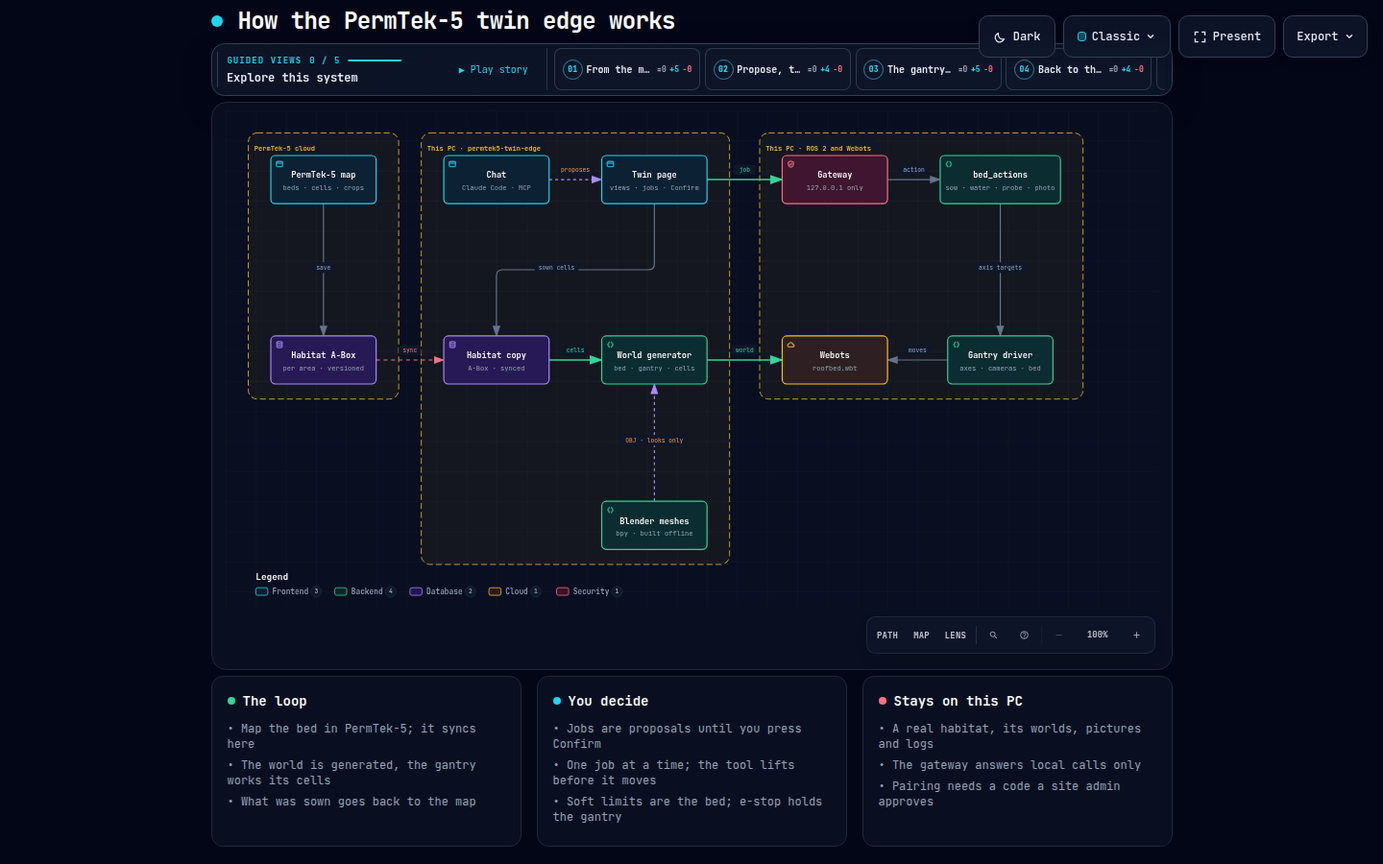
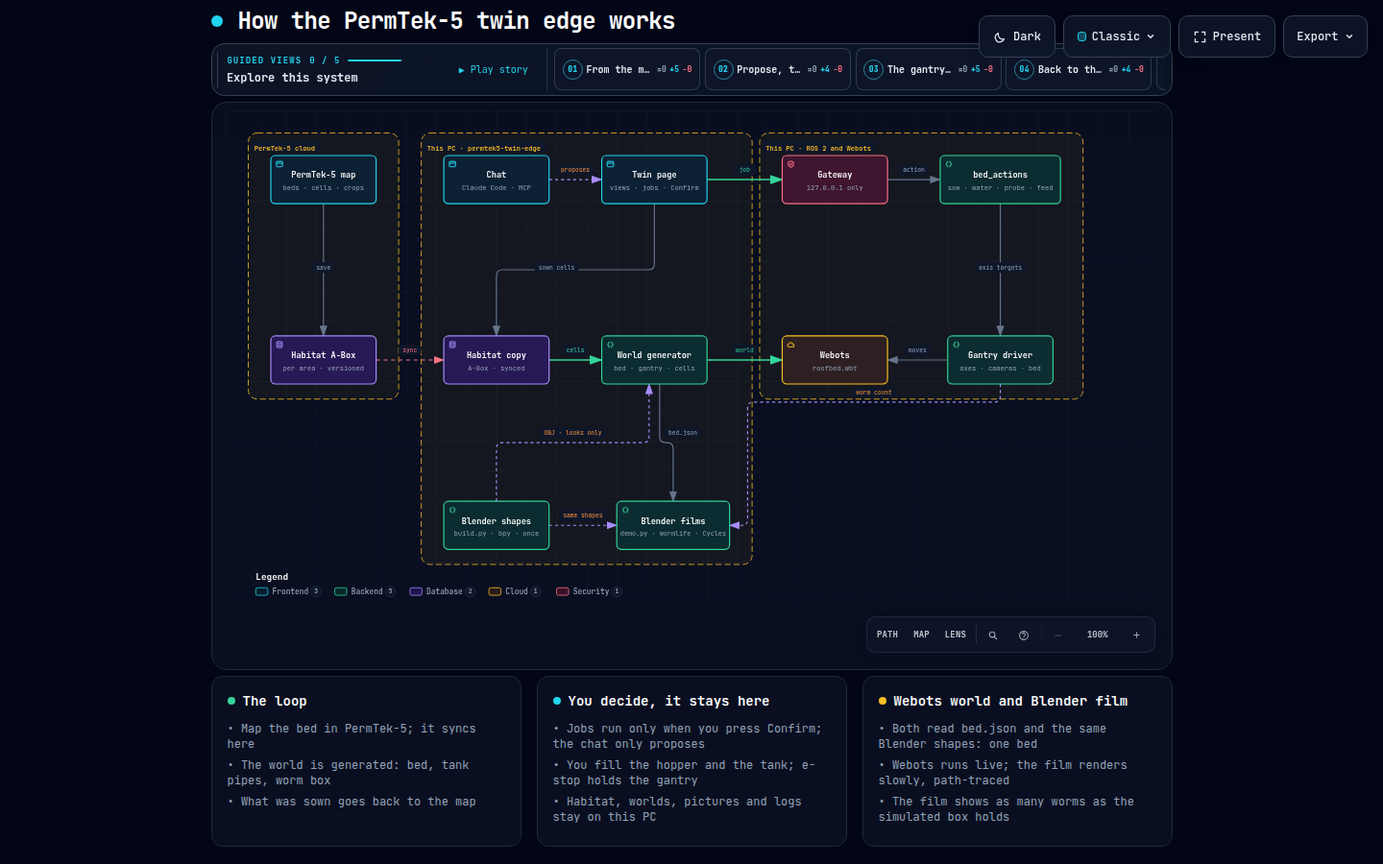
How it works: the Webots world and the Blender film
The drawing gains the Blender films: they read the same bed.json and the
same build.py shapes as the Webots world, and the simulated worm count.
A guided view and a card say what they share and what differs; the
README explains it in a table.

diff --git a/permtek5_twin_edge/static/how.html b/permtek5_twin_edge/static/how.html
@@ -5085,7 +5085,7 @@ OTHER DEALINGS IN THE FONT SOFTWARE.
       </div>
     </div>
 
-    <script id="archify-guided-views-data" type="application/json">[{"id":"plan","label":"From the map to a world","focus":["map","abox","knowledge","world","webots"],"note":"The habitat you map in PermTek-5 syncs to this PC. Its bed, cells and crops become a Webots world; nothing is drawn by hand."},{"id":"confirm","label":"Propose, then confirm","focus":["chat","page","gateway","actions"],"note":"The page lists what the gantry could do. A job is sent only when you press Confirm; the chat can only propose."},{"id":"move","label":"The gantry works a cell","focus":["actions","driver","webots","gateway","page"],"note":"bed_actions lifts the tool, moves over the cell, sows, waters, probes or photographs. Soft limits are the bed; an e-stop holds it."},{"id":"back","label":"Back to the map","focus":["page","knowledge","abox","map"],"note":"A sown cell is written into the habitat's copy, checked with the cloud's shapes, and the next sync shows it on the map."},{"id":"looks","label":"Blender meshes","focus":["assets","world","webots"],"note":"Plants, soil, the gantry's profile and trees are built once with Blender in its own Python. Without them the world uses boxes."}]</script>
+    <script id="archify-guided-views-data" type="application/json">[{"id":"plan","label":"From the map to a world","focus":["map","abox","knowledge","world","webots"],"note":"The habitat you map in PermTek-5 syncs to this PC. Its bed, cells and crops become a Webots world; nothing is drawn by hand."},{"id":"confirm","label":"Propose, then confirm","focus":["chat","page","gateway","actions"],"note":"The page lists what the gantry could do. A job is sent only when you press Confirm; the chat can only propose."},{"id":"move","label":"The gantry works a cell","focus":["actions","driver","webots","gateway","page"],"note":"bed_actions lifts the tool, moves over the cell, sows, waters, probes or photographs. Soft limits are the bed; an e-stop holds it."},{"id":"back","label":"Back to the map","focus":["page","knowledge","abox","map"],"note":"A sown cell is written into the habitat's copy, checked with the cloud's shapes, and the next sync shows it on the map."},{"id":"films","label":"Webots world and Blender film","focus":["world","webots","driver","assets","film"],"note":"Both read bed.json and one set of Blender shapes. Webots runs it live; the film renders it slowly and lifelike, with the box's worms."}]</script>
 
     <script id="archify-i18n-data" type="application/json">{"locale":"en","messages":{"viewer.kind.frontend":"Frontend","viewer.kind.backend":"Backend","viewer.kind.database":"Database","viewer.kind.cloud":"Cloud","viewer.kind.security":"Security","viewer.kind.messagebus":"Message bus","viewer.kind.external":"External","viewer.kind.neutral":"Neutral","viewer.kind.node":"Node","viewer.kind.start":"Start","viewer.kind.active":"Active","viewer.kind.waiting":"Waiting","viewer.kind.decision":"Decision","viewer.kind.success":"Success","viewer.kind.failure":"Failure","viewer.toolbar.actions":"Diagram actions","viewer.theme.toggle.title":"Toggle theme (T)","viewer.theme.toggle":"Toggle color theme","viewer.theme.dark":"Dark","viewer.theme.light":"Light","viewer.preset.choose.title":"Choose visual style (S cycles)","viewer.preset.choose":"Choose visual style","viewer.preset.style":"Style","viewer.preset.menu":"Visual style","viewer.preset.identity":"Visual identity","viewer.preset.cycles":"S cycles","viewer.preset.classic":"Classic","viewer.preset.classic.short":"Classic","viewer.preset.classic.hint":"Stable technical default","viewer.preset.flow":"Signal Flow","viewer.preset.flow.short":"Flow","viewer.preset.flow.hint":"Motion-forward presentation","viewer.preset.blueprint":"Blueprint","viewer.preset.blueprint.hint":"Engineering review","viewer.preset.editorial":"Editorial","viewer.preset.editorial.hint":"Publication and launch notes","viewer.preset.badge.signalFlow":"SIGNAL FLOW","viewer.preset.badge.blueprint":"BLUEPRINT / REV 01","viewer.preset.badge.editorial":"EDITORIAL / FIELD NOTE","viewer.preset.badge.editorialPlate":"ARCHIFY / PLATE 04","viewer.preset.current":"Visual style: {style}. Choose visual style","viewer.motion.live":"Live","viewer.motion.still":"Still","viewer.motion.pause":"Pause motion","viewer.motion.resume":"Resume motion","viewer.motion.reduced":"Motion paused by reduced-motion preference","viewer.motion.hidden":"Motion paused while this page is hidden","viewer.motion.yielding":"Pause motion; currently yielding to {owner}","viewer.motion.yielding.title":"Live preview enabled · yielding to {owner}","viewer.owner.story":"the guided story","viewer.owner.chapter":"the active chapter","viewer.owner.chapterPreview":"the chapter delta preview","viewer.owner.handoff":"the chapter handoff","viewer.owner.route":"Route Probe","viewer.owner.lens":"Semantic Lens","viewer.owner.relationship":"Relationship Preview","viewer.owner.intent":"Intent Trace","viewer.owner.focus":"semantic focus","viewer.owner.legend":"legend preview","viewer.owner.reader":"reader interaction","viewer.present.enter":"Enter presentation stage","viewer.present.enter.title":"Presentation stage (F)","viewer.present.exit":"Exit presentation stage","viewer.present.exit.title":"Exit presentation stage (F or Escape)","viewer.present.present":"Present","viewer.present.exit.label":"Exit","viewer.export.button":"Export","viewer.export.button.title":"Export diagram (E)","viewer.export.diagram":"Export diagram","viewer.export.menu":"Export","viewer.export.subtitle":"Portable, clean outputs","viewer.export.share":"Share","viewer.export.shareCard":"Share Card","viewer.export.routeShareCard":"Route Share Card","viewer.export.reachShareCard":"Reach Share Card","viewer.export.copyShareCard":"Copy Share Card","viewer.export.copyDiagram":"Copy diagram","viewer.export.clipboardPng":"PNG to clipboard","viewer.export.raster":"Raster images","viewer.export.image":"Image","viewer.export.lossless":"Lossless image","viewer.export.compact":"Compact image","viewer.export.modern":"Modern image","viewer.export.vectorMotion":"Vector and motion","viewer.export.vectorMotion.heading":"Vector \u0026 motion","viewer.export.editable":"Editable vector","viewer.export.motion6s":"6s motion","viewer.export.unsupported":"Not supported by this browser","viewer.export.clipboardUnsupported":"Clipboard image write not supported by this browser","viewer.export.clipboardUnsupported.period":"Clipboard image write not supported by this browser.","viewer.export.clipboardUnsupported.short":"Clipboard image write not supported in this browser.","viewer.export.motionUnavailable":"Motion capture unavailable in this browser","viewer.export.webmUnavailable":"WebM unavailable in this browser","viewer.export.failed":"Export failed: {message}","viewer.export.unknownVariant":"Unknown Share Card variant: {variant}","viewer.export.routeRequired":"Trace a route before exporting a Route Share Card","viewer.export.reachRequired":"Trace authored reach before exporting a Reach Share Card","viewer.export.unknown":"unknown","viewer.export.routeFailed":"Route Share Card export failed: {message}","viewer.export.reachFailed":"Reach Share Card export failed: {message}","viewer.export.copyFailed":"Copy failed: {message}","viewer.export.copiedPng":"Copied PNG to clipboard","viewer.export.copiedShare":"Copied Share Card","viewer.export.downloadedShare":"Downloaded Share Card","viewer.export.downloadedRoute":"Downloaded Route Share Card","viewer.export.downloadedReach":"Downloaded Reach Share Card","viewer.export.downloadedWebm":"Downloaded WebM","viewer.export.recording":"Recording 6 seconds of motion…","viewer.export.card.routeSummary.one":"Route: {source} → {target} · {count} directed hop","viewer.export.card.routeSummary.other":"Route: {source} → {target} · {count} directed hops","viewer.export.card.reachSummary":"Authored {direction} from {origin} · {nodes} · {links} · max {hops}","viewer.export.card.node.one":"{count} node","viewer.export.card.node.other":"{count} nodes","viewer.export.card.link.one":"{count} link","viewer.export.card.link.other":"{count} links","viewer.export.card.hop.one":"{count} hop","viewer.export.card.hop.other":"{count} hops","viewer.export.card.routeBadge":"ARCHIFY · ROUTE · {hops}","viewer.export.card.reachBadge":"ARCHIFY · {direction} REACH","viewer.export.card.defaultBadge":"ARCHIFY · {preset} · {theme}","viewer.export.direction.upstream":"Upstream","viewer.export.direction.downstream":"Downstream","viewer.export.error.canvasUnavailable":"Canvas unavailable for {label}","viewer.export.error.contextUnavailable":"2D canvas context unavailable for {label}","viewer.export.error.toBlobUnavailable":"canvas.toBlob unavailable for {label}","viewer.export.error.toBlobNull":"canvas.toBlob returned no data for {label}","viewer.export.error.variantsCombined":"Share Card variants cannot be combined","viewer.export.error.viewerState":"Share Card export could not remove temporary viewer state","viewer.export.error.routeState":"Route Card export could not preserve the resolved route safely","viewer.export.error.reachState":"Reach Card export could not preserve authored reach safely","viewer.export.error.webmRequirements":"WebM motion export requires a trace animation and browser MediaRecorder support","viewer.export.error.mediaRecorder":"MediaRecorder failed","viewer.export.error.emptyWebm":"MediaRecorder produced an empty WebM","viewer.export.error.webmBackground":"SVG background could not be loaded for WebM export","viewer.guided.region":"Guided diagram views","viewer.guided.previous":"Previous guided view","viewer.guided.previous.title":"Previous guided view ([)","viewer.guided.next":"Next guided view","viewer.guided.next.title":"Next guided view (])","viewer.guided.views":"Guided views","viewer.guided.explore":"Explore this system","viewer.guided.intro":"Step through curated paths without changing the source diagram.","viewer.guided.trail":"Story trail","viewer.guided.beat":"Beat","viewer.guided.nextBeat":"Next","viewer.guided.play":"Play guided story","viewer.guided.play.title":"Play guided story (P)","viewer.guided.pause":"Pause guided story","viewer.guided.pause.title":"Pause guided story (P)","viewer.guided.replay":"Replay guided story","viewer.guided.replay.title":"Replay guided story (P)","viewer.guided.playStory":"Play story","viewer.guided.pauseStory":"Pause","viewer.guided.replayStory":"Replay story","viewer.guided.motionUnavailable":"Story playback unavailable while motion is Still","viewer.guided.enableMotion":"Switch motion to Live to play the guided story","viewer.guided.selectBeatLink":"Select a Story Beat to copy its exact link","viewer.guided.copyMoment":"Copy moment","viewer.guided.momentCopied":"Moment link copied","viewer.guided.momentCopyFailed":"Could not copy story moment link","viewer.guided.copied":"Copied","viewer.guided.copyFailed":"Copy failed","viewer.guided.showAll":"Show all","viewer.guided.showAll.aria":"Show entire diagram","viewer.guided.chapters":"Story chapters","viewer.guided.storyTrail":"Story trail for {label}: {count} beats","viewer.guided.chapter.open":"Open chapter {index} of {total}: {label}, {count} stops","viewer.guided.chapter.current":"Current chapter {index} of {total}: {label}, {count} stops","viewer.guided.chapter.selectedNodes":"{count} selected nodes","viewer.guided.chapter.stops":"{count} stops","viewer.guided.chapter.stop.one":"{count} stop","viewer.guided.chapter.stop.other":"{count} stops","viewer.guided.chapter.current.title":"{label} — current chapter, {count} stops","viewer.guided.chapter.delta.expanded":"{stay} stay, {enter} enter, {leave} leave","viewer.guided.chapter.delta.aria":"Open chapter {index} of {total}: {label}. Chapter focus delta: {delta}","viewer.guided.chapter.delta.title":"{label} — {delta} chapter focus","viewer.guided.handoff":"{from} → {to} · via {label}","viewer.guided.share.chapter":"Chapter {index} / {total}","viewer.guided.share.initial":"Chapter 01 / 01","viewer.guided.share.default":"Guided chapter","viewer.guided.state.ready":"Ready","viewer.guided.state.playing":"Playing","viewer.guided.state.settled":"Settled","viewer.guided.state.paused":"Paused","viewer.guided.state.pinned":"Pinned","viewer.guided.state.still":"Still","viewer.guided.share.step":"Step {index} / {total} · {label}","viewer.guided.share.staticMoment":"{step} · Static moment","viewer.guided.share.complete":"{count} steps complete · {note}","viewer.guided.share.settled":"Path settled for reading.","viewer.guided.share.staticPath":"{count} steps · Static path","viewer.guided.share.ready":"{count} steps · Ready","viewer.guided.share.aria":"{state} chapter {index} of {total}: {label}. {beat}. {route}","viewer.guided.beat.start":"Beat {index} / {total} · {label} · starting point","viewer.guided.beat.forward":"Beat {index} / {total} · {from} → {to}","viewer.guided.beat.reverse":"Beat {index} / {total} · {from} → {to} · reverse authored link","viewer.guided.beat.multiple":"Beat {index} / {total} · {from} ⇄ {to} · {count} authored links","viewer.guided.beat.group":"Beat {index} / {total} · {from} · {to} · grouped · no direct link","viewer.guided.beat.aria.prefix":"Story beat {index} of {total}: {label}. ","viewer.guided.beat.aria.start":"Starting point.","viewer.guided.beat.aria.forward":"From {from} through one authored forward relationship.","viewer.guided.beat.aria.reverse":"From {from}; the authored relationship points from {to} to {from}.","viewer.guided.beat.aria.multiple":"From {from} through {count} authored relationships; shown without arbitrary motion.","viewer.guided.beat.aria.group":"Grouped from {from} with no direct authored relationship.","viewer.guided.caption.start":"Starting point","viewer.guided.caption.grouped":"Grouped transition · no direct authored link","viewer.guided.caption.more":" +{count} more","viewer.guided.caption.reverse":"Reverse authored relationship","viewer.guided.caption.relationships":"{count} authored relationships","viewer.guided.caption.relationship":"Authored relationship","viewer.guided.caption.direction":"authored direction: {from} → {to}","viewer.guided.caption.starting":"Authored starting point","viewer.guided.beatLink":"Copy link to current story moment: Beat {index} of {total}: {label}","viewer.guided.noStory":"This diagram has no authored guided story.","viewer.guide.eyebrow":"Diagram guide","viewer.guide.close":"Close diagram guide","viewer.guide.inspecting":"Inspecting compiled semantics","viewer.guide.actions":"Diagram exploration actions","viewer.guide.find":"Find any node","viewer.guide.find.hint":"Search labels, responsibilities, kinds, and stable IDs.","viewer.guide.route":"Trace a route","viewer.guide.route.aria":"Trace a directed route","viewer.guide.route.hint":"Ask how two semantic nodes connect in authored direction.","viewer.guide.map":"See the whole system","viewer.guide.map.hint":"Open Semantic Radar with a live viewport and stable nodes.","viewer.guide.lens":"Compare semantic kinds","viewer.guide.lens.hint":"Count roles, reveal their traffic, and compare direct authored links.","viewer.guide.story":"Play the guided story","viewer.guide.story.hint":"Walk the authored chapters and real relationships.","viewer.guide.present":"Enter Presentation Stage","viewer.guide.present.hint":"Give the live diagram the viewport without changing export.","viewer.guide.shortcuts":"Additional keyboard shortcuts","viewer.guide.shortcut.export":"Export","viewer.guide.shortcut.theme":"Theme","viewer.guide.shortcut.style":"Style","viewer.guide.shortcut.reset":"Reset","viewer.guide.shortcut.zoomIn":"Zoom in","viewer.guide.shortcut.zoomOut":"Zoom out","viewer.guide.shortcut.close":"Close","viewer.guide.facts":"{nodes} · {relationships} · {views}","viewer.guide.fact.node.one":"{count} semantic node","viewer.guide.fact.node.other":"{count} semantic nodes","viewer.guide.fact.relationship.one":"{count} relationship","viewer.guide.fact.relationship.other":"{count} relationships","viewer.guide.fact.view.one":"{count} guided view","viewer.guide.fact.view.other":"{count} guided views","viewer.guide.story.available.one":"Walk {count} authored chapter and its real relationships.","viewer.guide.story.available.other":"Walk {count} authored chapters and their real relationships.","viewer.guide.story.unavailable":"No authored guided story in this diagram.","viewer.guide.open":"Open diagram guide","viewer.guide.noStory":"This diagram has no authored guided story.","viewer.finder.title":"Find a node","viewer.finder.close":"Close node finder","viewer.finder.placeholder":"Search labels or IDs","viewer.finder.search":"Search diagram nodes","viewer.finder.results":"Diagram nodes","viewer.finder.empty":"No matching nodes","viewer.finder.result.focus":"Focus {label}","viewer.finder.result.routeStart":"Choose {label} as route start","viewer.finder.result.routeTarget":"Choose {label} as route destination, {links}","viewer.finder.status.empty":"No matching nodes","viewer.finder.status.count.one":"{count} matching node","viewer.finder.status.count.other":"{count} matching nodes","viewer.finder.noun.nodes":"nodes","viewer.finder.link.one":"{count} link","viewer.finder.link.other":"{count} links","viewer.finder.result.focus.one":"Focus {label}, {count} related connection","viewer.finder.result.focus.other":"Focus {label}, {count} related connections","viewer.finder.status.filtered":"{visible} of {available} {noun}","viewer.finder.status.all":"{available} {noun}","viewer.passport.eyebrow":"Semantic passport","viewer.passport.metadata":"Node metadata","viewer.passport.evidence":"Verified source evidence","viewer.passport.verified":"Verified source","viewer.passport.verificationScope":"Verified against local Git at the pinned revision. Remote access has not been checked.","viewer.passport.reach":"Authored reach","viewer.passport.reach.trace":"Trace authored reachability","viewer.passport.upstream":"Upstream","viewer.passport.downstream":"Downstream","viewer.passport.upstream.trace":"Trace upstream authored reachability","viewer.passport.downstream.trace":"Trace downstream authored reachability","viewer.passport.close":"Close semantic passport","viewer.passport.copy":"Copy link","viewer.passport.copy.focus":"Copy link to focused node","viewer.passport.relations":"Relations","viewer.passport.relations.show":"Show connected relationships","viewer.passport.relations.hide":"Hide connected relationships","viewer.passport.relations.list":"Connected relationships","viewer.passport.copyRelation":"Copy relation","viewer.passport.copyNode":"Copy node","viewer.passport.copyPinned":"Copy link to pinned relationship","viewer.passport.copySource":"Copy link to source node","viewer.passport.copy.focused.success":"Focused node link copied","viewer.passport.copy.pinned.success":"Pinned relationship link copied","viewer.passport.copy.focused.failed":"Could not copy focused node link","viewer.passport.copy.pinned.failed":"Could not copy pinned relationship link","viewer.passport.relationship.none":"No connected relationships","viewer.passport.relationship.count.one":"{count} relation","viewer.passport.relationship.count.other":"{count} relations","viewer.passport.relationship.show.one":"Show {count} connected relationship","viewer.passport.relationship.show.other":"Show {count} connected relationships","viewer.passport.relationship.summary":"{out} outgoing · {in} incoming{loops}","viewer.passport.relationship.loops":" · {count} loop","viewer.passport.relationship.explorer":"Direct relationship explorer","viewer.passport.relationship.help":"Use arrow keys to explore relationships. Press Enter or Space to pin details; Escape clears.","viewer.passport.relationship.loopsBack":"loops back","viewer.passport.relationship.connectsTo":"connects to","viewer.passport.relationship.connectsFrom":"connects from","viewer.passport.relationship.pinned":"Pinned relationship · {from} → {to} · {label}","viewer.passport.relationship.inspect":"Inspect relationship {index} of {total}: {from} to {to}, {label}. Press Enter for details.","viewer.passport.relationship.group.out":"Outgoing","viewer.passport.relationship.group.in":"Incoming","viewer.passport.relationship.group.loop":"Self loops","viewer.passport.relationship.row":"{group}: {relationship}, {neighbor}","viewer.passport.relationship.direction.out":"OUT →","viewer.passport.relationship.direction.in":"← IN","viewer.passport.relationship.direction.loop":"LOOP","viewer.passport.sourceCount.one":"{count} verified source reference","viewer.passport.sourceCount.other":"{count} verified source references","viewer.passport.sourceMarker":"SRC","viewer.passport.beacon.one":"{count} verified source; focus this node to inspect","viewer.passport.beacon.other":"{count} verified sources; focus this node to inspect","viewer.passport.repository.open":"Open verified repository revision {revision}","viewer.passport.source.open":"Open verified source {path} at revision {revision}","viewer.passport.source.openLink":"Open ↗","viewer.passport.reach.upstream.one":"Trace {count} upstream authored node","viewer.passport.reach.upstream.other":"Trace {count} upstream authored nodes","viewer.passport.reach.downstream.one":"Trace {count} downstream authored node","viewer.passport.reach.downstream.other":"Trace {count} downstream authored nodes","viewer.passport.reach.noUpstream":"No upstream authored nodes","viewer.passport.reach.noDownstream":"No downstream authored nodes","viewer.passport.reach.status":"{direction} · {nodes} nodes · {links} links · max {hops} hops","viewer.route.eyebrow":"Route probe","viewer.route.start":"Choose a start node","viewer.route.start.find":"Find start","viewer.route.start.find.aria":"Find a route start","viewer.route.copy":"Copy link","viewer.route.copy.aria":"Copy link to traced route","viewer.route.clear":"Clear","viewer.route.clear.aria":"Clear route probe","viewer.route.traced":"Traced route","viewer.route.pickTwo":"Pick two semantic nodes on the diagram","viewer.route.pickOne":"Pick a semantic node on the diagram","viewer.route.controls":"Route journey controls","viewer.route.previous":"Previous route position","viewer.route.play":"Play route journey","viewer.route.pause":"Pause route journey","viewer.route.replay":"Replay route journey","viewer.route.next":"Next route position","viewer.route.journey":"Journey","viewer.route.pause.label":"Pause","viewer.route.replay.label":"Replay","viewer.route.overview":"Overview","viewer.route.overview.aria":"Show complete route overview","viewer.route.instructions":"Choose the source, then the destination. Direction matters.","viewer.route.destination":"Choose a destination from {label}","viewer.route.destination.find":"Find target","viewer.route.destination.find.aria":"Find a reachable route destination","viewer.route.differentDestination":"Choose a different destination","viewer.route.distinct":"A route needs two distinct semantic nodes.","viewer.route.unreachable":"No directed route to {label}","viewer.route.unreachable.detail":"{target} is not reachable from {source}. Pick a highlighted destination.","viewer.route.start.instructions":"Select the source. The next step will reveal only directed destinations.","viewer.route.copy.success":"Traced route link copied","viewer.route.copy.failed":"Could not copy traced route link","viewer.route.position":"Route position {index} of {total}: {label}","viewer.route.step":"Step {index} of {total} · {phase} · {label}","viewer.route.motionRequired":"Automatic journey requires Live motion","viewer.route.trigger.clear":"Clear traced route","viewer.route.overview.status":"{nodes} · {hops} · shortest authored route","viewer.route.overview.node.one":"{count} node","viewer.route.overview.node.other":"{count} nodes","viewer.route.overview.hop.one":"{count} directed hop","viewer.route.overview.hop.other":"{count} directed hops","viewer.route.phase.playing":"Playing","viewer.route.phase.complete":"Complete","viewer.route.phase.inspecting":"Inspecting","viewer.route.destination.count.one":"{count} directed destination available. Pick a highlighted node.","viewer.route.destination.count.other":"{count} directed destinations available. Pick a highlighted node.","viewer.route.noOutgoing":"No outgoing route starts here. Clear and choose another source.","viewer.route.result.title":"{source} to {target}","viewer.route.finder.source.title":"Choose route start","viewer.route.finder.source.placeholder":"Search route sources","viewer.route.finder.source.empty":"No matching route sources","viewer.route.finder.source.results":"Nodes that can start a route","viewer.route.finder.source.noun":"route sources","viewer.route.finder.source.badge":"start","viewer.route.finder.target.title":"Destination from {label}","viewer.route.finder.target.placeholder":"Search reachable destinations","viewer.route.finder.target.empty":"No matching reachable destinations","viewer.route.finder.target.results":"Reachable route destinations","viewer.route.finder.target.noun":"reachable destinations","viewer.route.hop.one":"{count} hop","viewer.route.hop.other":"{count} hops","viewer.lens.eyebrow":"Semantic lens","viewer.lens.title":"Compare system roles","viewer.lens.close":"Close semantic lens","viewer.lens.instruction":"Choose up to two semantic kinds. One reveals its real traffic; two compare only direct authored relationships.","viewer.lens.kinds":"Semantic kinds","viewer.lens.choose":"Choose a kind to inspect its nodes and touching relationships.","viewer.lens.copy":"Copy link to semantic lens","viewer.lens.clear":"Clear semantic lens","viewer.lens.open":"Open semantic lens","viewer.lens.openActive":"Open active semantic lens","viewer.lens.legend":"Semantic legend","viewer.lens.legend.inspect.one":"Inspect {label}, {count} node","viewer.lens.legend.inspect.other":"Inspect {label}, {count} nodes","viewer.lens.kind.count.one":"{label}, {count} node","viewer.lens.kind.count.other":"{label}, {count} nodes","viewer.lens.compare.one":"{first} → {second}: {forward} · {second} → {first}: {reverse} · {count} direct relationship","viewer.lens.compare.other":"{first} → {second}: {forward} · {second} → {first}: {reverse} · {count} direct relationships","viewer.lens.single":"{nodes} · {relationships} · connected peers remain visible","viewer.lens.node.one":"{count} {label} node","viewer.lens.node.other":"{count} {label} nodes","viewer.lens.relationship.one":"{count} touching relationship","viewer.lens.relationship.other":"{count} touching relationships","viewer.radar.title":"Semantic radar","viewer.radar.building":"Building overview","viewer.radar.openFull":"Open full semantic radar","viewer.radar.open":"Open radar","viewer.radar.close":"Close semantic radar","viewer.radar.surface":"Diagram overview. Click a node to focus it, or use arrow keys to pan.","viewer.radar.click":"Click node","viewer.radar.drag":"Drag to pan","viewer.radar.space":"Semantic radar needs more MAP space.","viewer.radar.nodes":"Semantic diagram radar nodes","viewer.radar.focus":"Focus {label} from Semantic Radar","viewer.radar.status":"{count} nodes · {viewport}","viewer.radar.fullMap":"{count} nodes · full map","viewer.radar.compacted":"Radar compacted to avoid covering the Semantic Passport or MAP controls.","viewer.radar.cancelWaiting":"Cancel semantic radar waiting for more MAP space","viewer.radar.needsSpace":"Semantic radar needs more visible MAP space","viewer.radar.viewport.full":"full map","viewer.radar.viewport.width":"{percent}% width","viewer.radar.viewport.scale":"{percent}% viewport","viewer.nav.controls":"Diagram view controls","viewer.nav.route":"Trace a directed route","viewer.nav.route.title":"Trace route (R)","viewer.nav.route.short":"PATH","viewer.nav.radar":"Open semantic radar","viewer.nav.radar.title":"Semantic radar (M)","viewer.nav.radar.short":"MAP","viewer.nav.lens":"Open semantic lens","viewer.nav.lens.title":"Semantic lens (L)","viewer.nav.lens.short":"LENS","viewer.nav.find":"Find a node","viewer.nav.find.title":"Find a node (/)","viewer.nav.guide":"Open diagram guide","viewer.nav.guide.title":"Diagram guide (?)","viewer.nav.zoomOut":"Zoom out","viewer.nav.zoomOut.title":"Zoom out (-)","viewer.nav.reset":"Reset diagram view","viewer.nav.reset.title":"Reset view (0)","viewer.nav.read":"READ","viewer.nav.zoomIn":"Zoom in","viewer.nav.zoomIn.title":"Zoom in (+)","viewer.nav.camera":"{hint}. Reset diagram view","viewer.nav.camera.title":"{semantic}{hint} · reset view (0)","viewer.nav.camera.semantic":"Semantic camera active · ","viewer.nav.level.map":"MAP","viewer.nav.level.read":"READ","viewer.nav.level.full":"FULL","viewer.nav.level.auto":"AUTO","viewer.nav.detail.map":"Zoom in to reveal relationship labels and node context","viewer.nav.detail.read":"Zoom in again to reveal tags and annotations","viewer.nav.detail.full":"Full diagram detail","viewer.intent.summary":"{label}. {out} outgoing, {in} incoming{loops}. {total} connections. Press Enter for details.","viewer.intent.loops":", {count} self loop","viewer.common.copied":"Copied","viewer.common.copyFailed":"Copy failed","viewer.common.copyLink":"Copy link","viewer.common.clear":"Clear","viewer.common.close":"Close"}}</script>
     <div class="guided-views no-print" id="guided-views" hidden aria-label="Guided diagram views">
@@ -5158,7 +5158,7 @@ OTHER DEALINGS IN THE FONT SOFTWARE.
         <!-- Boundaries (behind everything) -->
         <rect data-graph-role="structural-frame" data-composition-frame-kind="region" data-composition-frame-id="0" data-composition-frame-label="PermTek-5 cloud" x="30" y="30" width="200" height="354" rx="12" class="c-region" stroke-width="1"/>
 
-        <rect data-graph-role="structural-frame" data-composition-frame-kind="region" data-composition-frame-id="1" data-composition-frame-label="This PC · permtek5-twin-edge" x="260" y="30" width="410" height="574" rx="12" class="c-region" stroke-width="1"/>
+        <rect data-graph-role="structural-frame" data-composition-frame-kind="region" data-composition-frame-id="1" data-composition-frame-label="This PC · permtek5-twin-edge" x="260" y="30" width="440" height="574" rx="12" class="c-region" stroke-width="1"/>
 
         <rect data-graph-role="structural-frame" data-composition-frame-kind="region" data-composition-frame-id="2" data-composition-frame-label="This PC · ROS 2 and Webots" x="710" y="30" width="430" height="354" rx="12" class="c-region" stroke-width="1"/>
 
@@ -5166,7 +5166,7 @@ OTHER DEALINGS IN THE FONT SOFTWARE.
         <path data-edge-from="map" data-edge-to="abox" data-edge-label="save" data-edge-key="0" data-edge-id="save" data-composition-points="130,124;130,300" d="M 130 124 L 130 300" class="a-default" stroke-width="1.5" marker-end="url(#arrowhead)"/>
         <path data-edge-from="abox" data-edge-to="knowledge" data-edge-label="sync" data-edge-key="1" data-edge-id="down" data-composition-points="200,332;290,332" d="M 200 332 L 290 332" class="a-security" stroke-width="1.5" marker-end="url(#arrowhead-security)"/>
         <path data-edge-from="knowledge" data-edge-to="world" data-edge-label="cells" data-edge-key="2" data-edge-id="cells" data-composition-points="430,332;500,332" d="M 430 332 L 500 332" class="a-emphasis" stroke-width="1.8" marker-end="url(#arrowhead-emphasis)"/>
-        <path data-edge-from="assets" data-edge-to="world" data-edge-label="OBJ · looks only" data-edge-key="3" data-edge-id="meshes" data-composition-points="570,520;570,364" d="M 570 520 L 570 364" class="a-dashed" stroke-width="1.5" marker-end="url(#arrowhead-dashed)"/>
+        <path data-edge-from="assets" data-edge-to="world" data-edge-label="OBJ · looks only" data-edge-key="3" data-edge-id="meshes" data-composition-points="360,520;360,442;563,442;563,364" d="M 360 520 L 360 450 Q 360 442 368 442 L 555 442 Q 563 442 563 434 L 563 364" class="a-dashed" stroke-width="1.5" marker-end="url(#arrowhead-dashed)"/>
         <path data-edge-from="world" data-edge-to="webots" data-edge-label="world" data-edge-key="4" data-edge-id="wbt" data-composition-points="640,332;740,332" d="M 640 332 L 740 332" class="a-emphasis" stroke-width="1.8" marker-end="url(#arrowhead-emphasis)"/>
         <path data-edge-from="chat" data-edge-to="page" data-edge-label="proposes" data-edge-key="5" data-edge-id="propose" data-composition-points="430,92;500,92" d="M 430 92 L 500 92" class="a-dashed" stroke-width="1.5" marker-end="url(#arrowhead-dashed)"/>
         <path data-edge-from="page" data-edge-to="gateway" data-edge-label="job" data-edge-key="6" data-edge-id="job" data-composition-points="640,92;740,92" d="M 640 92 L 740 92" class="a-emphasis" stroke-width="1.8" marker-end="url(#arrowhead-emphasis)"/>
@@ -5174,6 +5174,9 @@ OTHER DEALINGS IN THE FONT SOFTWARE.
         <path data-edge-from="actions" data-edge-to="driver" data-edge-label="axis targets" data-edge-key="8" data-edge-id="targets" data-composition-points="1030,124;1030,300" d="M 1030 124 L 1030 300" class="a-default" stroke-width="1.5" marker-end="url(#arrowhead)"/>
         <path data-edge-from="driver" data-edge-to="webots" data-edge-label="moves" data-edge-key="9" data-edge-id="sim" data-composition-points="960,332;880,332" d="M 960 332 L 880 332" class="a-default" stroke-width="1.5" marker-end="url(#arrowhead)"/>
         <path data-edge-from="page" data-edge-to="knowledge" data-edge-label="sown cells" data-edge-key="10" data-edge-id="sown" data-composition-points="570,124;570,212;360,212;360,300" d="M 570 124 L 570 204 Q 570 212 562 212 L 368 212 Q 360 212 360 220 L 360 300" class="a-default" stroke-width="1.5" marker-end="url(#arrowhead)"/>
+        <path data-edge-from="assets" data-edge-to="film" data-edge-label="same shapes" data-edge-key="11" data-edge-id="sameshapes" data-composition-points="430,552;520,552" d="M 430 552 L 520 552" class="a-dashed" stroke-width="1.5" marker-end="url(#arrowhead-dashed)"/>
+        <path data-edge-from="world" data-edge-to="film" data-edge-label="bed.json" data-edge-key="12" data-edge-id="bedjson" data-composition-points="577,364;577,442;595,442;595,520" d="M 577 364 L 577 434 Q 577 442 585 442 L 587 442 Q 595 442 595 450 L 595 520" class="a-default" stroke-width="1.5" marker-end="url(#arrowhead)"/>
+        <path data-edge-from="driver" data-edge-to="film" data-edge-label="worm count" data-edge-key="13" data-edge-id="wormcount" data-composition-points="1030,364;1030,388;694,388;694,552;670,552" d="M 1030 364 L 1030 380 Q 1030 388 1022 388 L 702 388 Q 694 388 694 396 L 694 544 Q 694 552 686 552 L 670 552" class="a-dashed" stroke-width="1.5" marker-end="url(#arrowhead-dashed)"/>
 
         <!-- Components -->
         <g id="node-map" data-node-id="map" data-node-label="PermTek-5 map" tabindex="0" role="button" aria-label="Focus PermTek-5 map, beds · cells · crops, PermTek-5 cloud" aria-pressed="false" data-node-kind="frontend" data-node-sublabel="beds · cells · crops" data-node-context="PermTek-5 cloud">
@@ -5254,15 +5257,15 @@ OTHER DEALINGS IN THE FONT SOFTWARE.
         <text data-detail="context" x="570" y="346" class="t-muted" font-size="9" text-anchor="middle">bed · gantry · cells</text>
         </g>
 
-        <g id="node-assets" data-node-id="assets" data-node-label="Blender meshes" tabindex="0" role="button" aria-label="Focus Blender meshes, bpy · built offline, This PC · permtek5-twin-edge" aria-pressed="false" data-node-kind="backend" data-node-sublabel="bpy · built offline" data-node-context="This PC · permtek5-twin-edge">
-          <title>Blender meshes · bpy · built offline · This PC · permtek5-twin-edge</title>
-          <rect x="500" y="520" width="140" height="64" rx="6" class="c-mask"/>
-          <rect x="500" y="520" width="140" height="64" rx="6" class="c-backend" stroke-width="1.5"/>
-          <g aria-hidden="true" data-semantic-sigil="backend" class="semantic-sigil s-backend" transform="translate(506 526) scale(0.6875)">
+        <g id="node-assets" data-node-id="assets" data-node-label="Blender shapes" tabindex="0" role="button" aria-label="Focus Blender shapes, build.py · bpy · once, This PC · permtek5-twin-edge" aria-pressed="false" data-node-kind="backend" data-node-sublabel="build.py · bpy · once" data-node-context="This PC · permtek5-twin-edge">
+          <title>Blender shapes · build.py · bpy · once · This PC · permtek5-twin-edge</title>
+          <rect x="290" y="520" width="140" height="64" rx="6" class="c-mask"/>
+          <rect x="290" y="520" width="140" height="64" rx="6" class="c-backend" stroke-width="1.5"/>
+          <g aria-hidden="true" data-semantic-sigil="backend" class="semantic-sigil s-backend" transform="translate(296 526) scale(0.6875)">
             <path d="M6 3 3 8l3 5M10 3l3 5-3 5"/>
           </g>
-          <text data-node-label="" data-detail-anchor="" x="570" y="550" class="t-primary" font-size="11" font-weight="600" text-anchor="middle">Blender meshes</text>
-        <text data-detail="context" x="570" y="566" class="t-muted" font-size="9" text-anchor="middle">bpy · built offline</text>
+          <text data-node-label="" data-detail-anchor="" x="360" y="550" class="t-primary" font-size="11" font-weight="600" text-anchor="middle">Blender shapes</text>
+        <text data-detail="context" x="360" y="566" class="t-muted" font-size="9" text-anchor="middle">build.py · bpy · once</text>
         </g>
 
         <g id="node-gateway" data-node-id="gateway" data-node-label="Gateway" tabindex="0" role="button" aria-label="Focus Gateway, 127.0.0.1 only, This PC · ROS 2 and Webots" aria-pressed="false" data-node-kind="security" data-node-sublabel="127.0.0.1 only" data-node-context="This PC · ROS 2 and Webots">
@@ -5310,6 +5313,18 @@ OTHER DEALINGS IN THE FONT SOFTWARE.
         <text data-detail="context" x="1030" y="346" class="t-muted" font-size="9" text-anchor="middle">axes · cameras · bed</text>
         </g>
 
+        <g id="node-film" data-node-id="film" data-node-label="Blender films" tabindex="0" role="button" aria-label="Focus Blender films, demo.py · wormlife · Cycles, This PC · permtek5-twin-edge" aria-pressed="false" data-node-kind="backend" data-node-sublabel="demo.py · wormlife · Cycles" data-node-tag="rendered offline" data-node-context="This PC · permtek5-twin-edge">
+          <title>Blender films · demo.py · wormlife · Cycles · This PC · permtek5-twin-edge · rendered offline</title>
+          <rect x="520" y="520" width="150" height="64" rx="6" class="c-mask"/>
+          <rect x="520" y="520" width="150" height="64" rx="6" class="c-backend" stroke-width="1.5"/>
+          <g aria-hidden="true" data-semantic-sigil="backend" class="semantic-sigil s-backend" transform="translate(526 526) scale(0.6875)">
+            <path d="M6 3 3 8l3 5M10 3l3 5-3 5"/>
+          </g>
+          <text data-node-label="" data-detail-anchor="" x="595" y="550" class="t-primary" font-size="11" font-weight="600" text-anchor="middle">Blender films</text>
+        <text data-detail="context" x="595" y="566" class="t-muted" font-size="8.7" text-anchor="middle">demo.py · wormlife · Cycles</text>
+        <text data-detail="fine" x="595" y="576" class="t-backend" font-size="7" text-anchor="middle">rendered offline</text>
+        </g>
+
         <!-- Connection labels -->
         <g data-detail="context" data-edge-from="map" data-edge-to="abox" data-edge-label="save" data-edge-key="0" data-edge-id="save">
           <rect x="115" y="202" width="30" height="14" rx="3" class="c-mask"/>
@@ -5324,8 +5339,8 @@ OTHER DEALINGS IN THE FONT SOFTWARE.
           <text x="465" y="322" class="t-backend" font-size="8" text-anchor="middle">cells</text>
         </g>
         <g data-detail="context" data-edge-from="assets" data-edge-to="world" data-edge-label="OBJ · looks only" data-edge-key="3" data-edge-id="meshes">
-          <rect x="526.6" y="432" width="86.8" height="14" rx="3" class="c-mask"/>
-          <text x="570" y="442" class="t-messagebus" font-size="8" text-anchor="middle">OBJ · looks only</text>
+          <rect x="418.1" y="422" width="86.8" height="14" rx="3" class="c-mask"/>
+          <text x="461.5" y="432" class="t-messagebus" font-size="8" text-anchor="middle">OBJ · looks only</text>
         </g>
         <g data-detail="context" data-edge-from="world" data-edge-to="webots" data-edge-label="world" data-edge-key="4" data-edge-id="wbt">
           <rect x="673" y="312" width="34" height="14" rx="3" class="c-mask"/>
@@ -5354,6 +5369,18 @@ OTHER DEALINGS IN THE FONT SOFTWARE.
         <g data-detail="context" data-edge-from="page" data-edge-to="knowledge" data-edge-label="sown cells" data-edge-key="10" data-edge-id="sown">
           <rect x="411" y="202" width="58" height="14" rx="3" class="c-mask"/>
           <text x="440" y="212" class="t-muted" font-size="8" text-anchor="middle">sown cells</text>
+        </g>
+        <g data-detail="context" data-edge-from="assets" data-edge-to="film" data-edge-label="same shapes" data-edge-key="11" data-edge-id="sameshapes">
+          <rect x="443.6" y="532" width="62.8" height="14" rx="3" class="c-mask"/>
+          <text x="475" y="542" class="t-messagebus" font-size="8" text-anchor="middle">same shapes</text>
+        </g>
+        <g data-detail="context" data-edge-from="world" data-edge-to="film" data-edge-label="bed.json" data-edge-key="12" data-edge-id="bedjson">
+          <rect x="583.8" y="422" width="48.4" height="14" rx="3" class="c-mask"/>
+          <text x="608" y="432" class="t-muted" font-size="8" text-anchor="middle">bed.json</text>
+        </g>
+        <g data-detail="context" data-edge-from="driver" data-edge-to="film" data-edge-label="worm count" data-edge-key="13" data-edge-id="wormcount">
+          <rect x="833" y="368" width="58" height="14" rx="3" class="c-mask"/>
+          <text x="862" y="378" class="t-messagebus" font-size="8" text-anchor="middle">worm count</text>
         </g>
 
         <!-- Boundary labels (foreground masks keep routes out of titles) -->
@@ -5597,24 +5624,24 @@ OTHER DEALINGS IN THE FONT SOFTWARE.
       <div class="card">
         <div class="card-header">
           <div class="card-dot cyan"></div>
-          <h3>You decide</h3>
+          <h3>You decide, it stays here</h3>
         </div>
         <ul>
-          <li>&bull; Jobs are proposals until you press Confirm</li>
-          <li>&bull; You fill the hopper and the tank; the gantry feeds the worms</li>
-          <li>&bull; Soft limits are the bed; e-stop holds the gantry</li>
+          <li>&bull; Jobs run only when you press Confirm; the chat only proposes</li>
+          <li>&bull; You fill the hopper and the tank; e-stop holds the gantry</li>
+          <li>&bull; Habitat, worlds, pictures and logs stay on this PC</li>
         </ul>
       </div>
 
       <div class="card">
         <div class="card-header">
-          <div class="card-dot rose"></div>
-          <h3>Stays on this PC</h3>
+          <div class="card-dot amber"></div>
+          <h3>Webots world and Blender film</h3>
         </div>
         <ul>
-          <li>&bull; A real habitat, its worlds, pictures and logs</li>
-          <li>&bull; The gateway answers local calls only</li>
-          <li>&bull; Pairing needs a code a site admin approves</li>
+          <li>&bull; Both read bed.json and the same Blender shapes: one bed</li>
+          <li>&bull; Webots runs live; the film renders slowly, path-traced</li>
+          <li>&bull; The film shows as many worms as the simulated box holds</li>
         </ul>
       </div>
     </div>

diff --git a/README.md b/README.md
@@ -91,6 +91,25 @@ ones between.
 .venv-bpy/bin/python assets/demo.py --shot box --quality draft  # poster-box.png and film-box.mp4 in mydocs/twin/demo/
 ```
 
+**The Webots world and the Blender film are two pictures of one bed.** They
+share three things and nothing else:
+
+| Shared | Webots (live) | Blender film (offline) |
+|---|---|---|
+| `bed.json`, written by `world.py` next to `roofbed.wbt` when a world is prepared | the gantry driver reads it: the bed's size, cells and crops, the rails, the worm box, the tank | `demo.py` reads the same file, so the film shows the bed as it was prepared: every planted cell in its crop's colour, the garden's trees, the worm box at the bed's far end |
+| the shapes from `assets/build.py` | loaded as OBJ files from `permtek5_twin_edge/shapes/`, for looks only; collisions and motion never depend on them | the same functions are called directly inside Blender, so plants, soil, the gantry's profile, trees and the worm box are the very same shapes |
+| the worm count | the driver's worm box model counts thousands of worms but shows only a sample, as many as a log of the real count, while the lid is open | when a render starts, the edge takes the simulated adults and the film shows about as many worms (`visible_worms`) |
+
+What differs is everything else. Webots runs in real time, with physics, the
+robot's cameras and jobs you confirm; its looks are simple. The film is
+path-traced by Cycles at tens of seconds a frame, and only it has
+`wormlife.py`'s close-up detail: moist castings, newspaper and cardboard, the
+last feeding's scraps, cocoons, worms that crawl and feel about with their
+heads, and shallow focus. The film is **not a recording of the simulation**:
+the camera's path and the gantry's travel are scripted in `demo.py`, and a job
+running in Webots does not show in it. To see the bed as it is now, prepare the
+world again and render again.
+
 **The worm box** is two bins: a working bin above the soil on a sump that
 catches the liquid. Its sensors (two temperatures, moisture, weight, gas,
 acidity, sump level, lid) read with noise and can fail. Around it:
